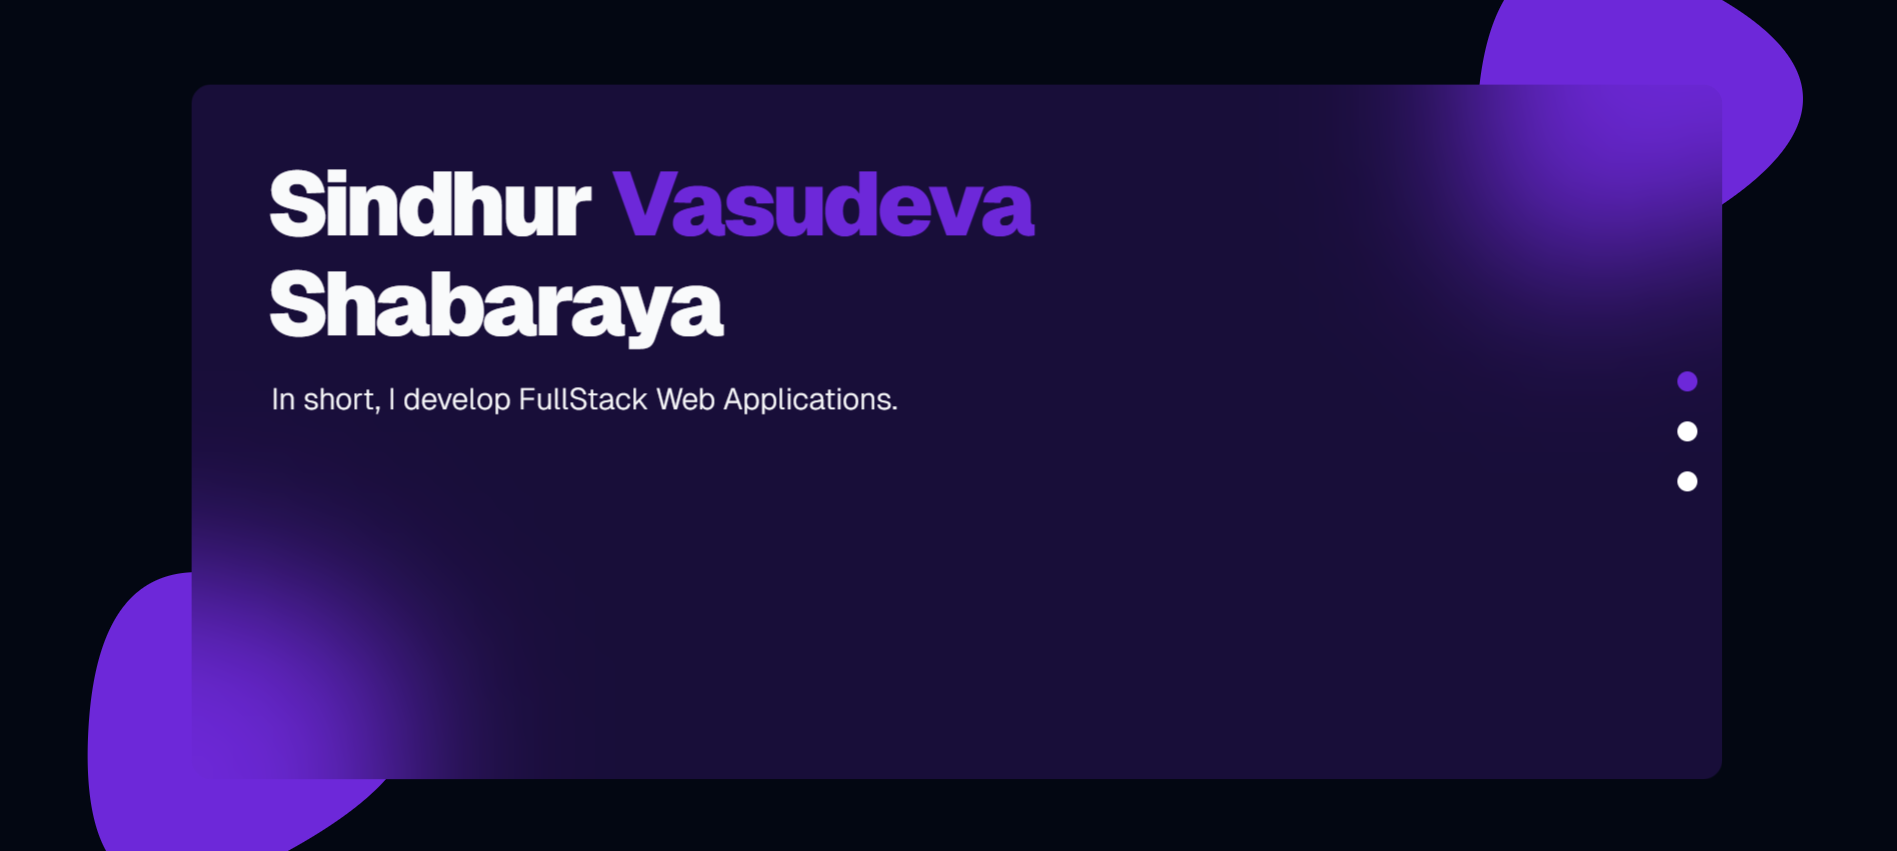
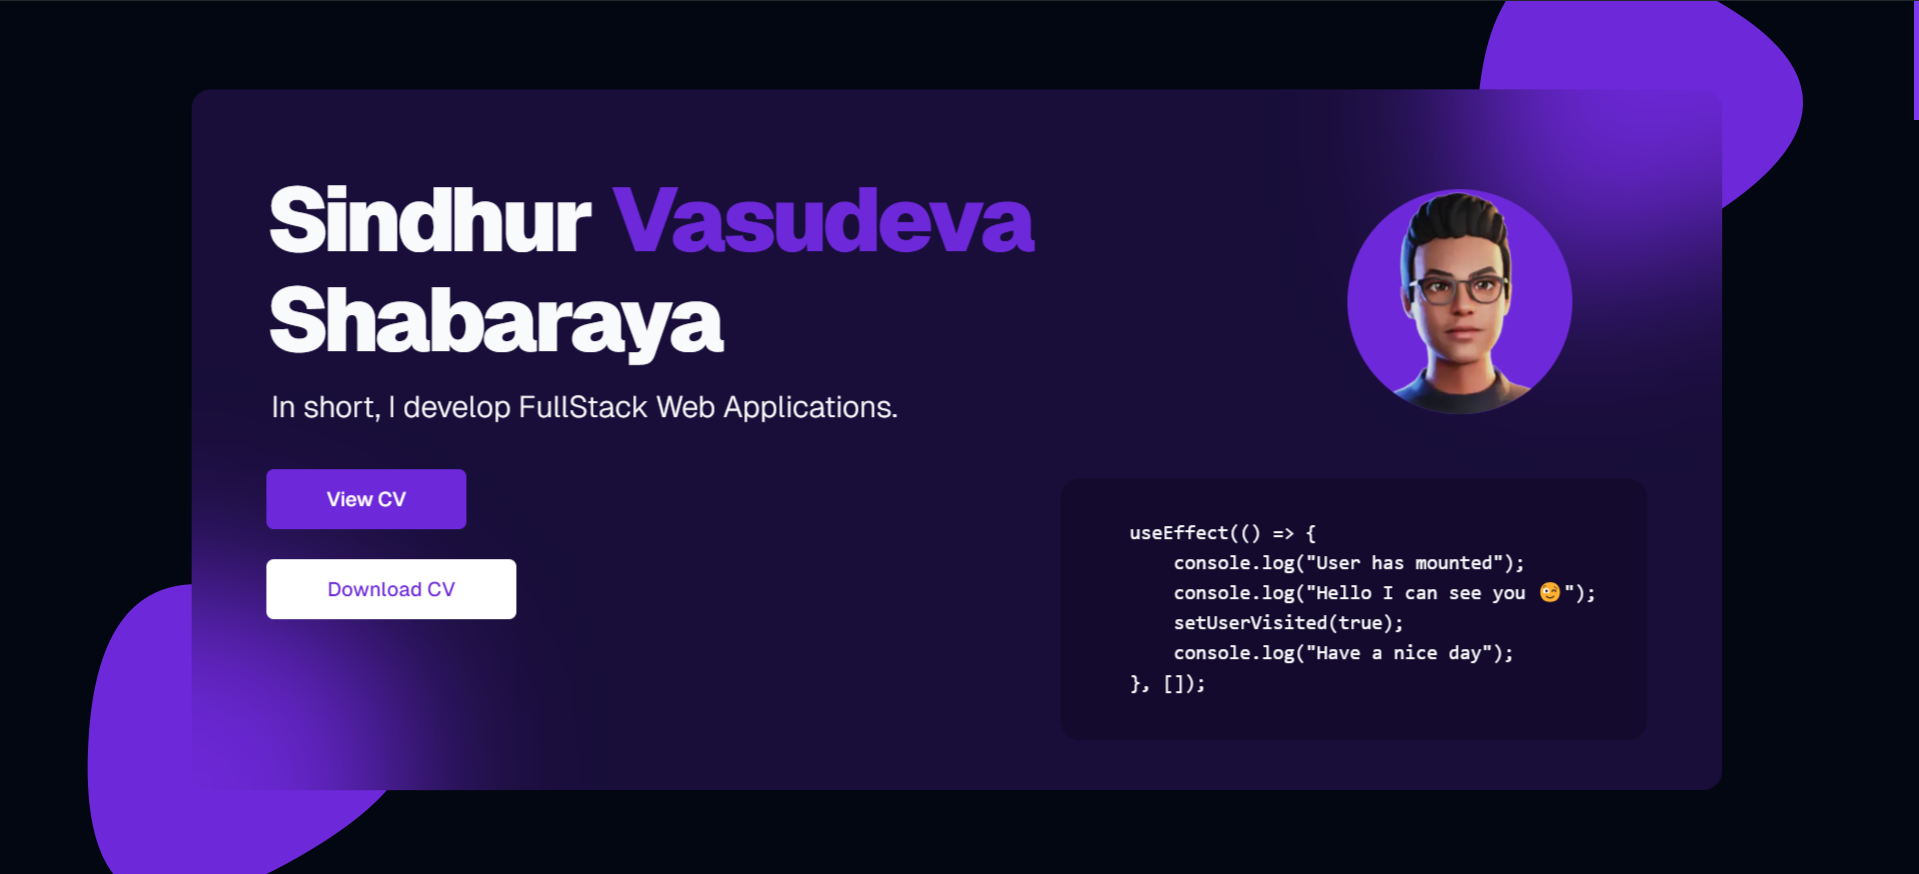
EmailJS & improvement in Landing

diff --git a/components/Contact.tsx b/components/Contact.tsx
@@ -2,11 +2,13 @@
 
 import { useForm } from "react-hook-form";
 import { zodResolver } from "@hookform/resolvers/zod";
+import { useEffect } from "react";
 import zod from "zod";
 import FormComponent from "./FormComponent";
 import Image from "next/image";
 import { Button } from "./ui/button";
 import Link from "next/link";
+import emailjs from "@emailjs/browser";
 
 const formSchema = zod.object({
   name: zod.string().min(2, {
@@ -32,8 +34,29 @@ const Contact = () => {
     },
   });
 
-  const onSubmit = (data: zod.infer<typeof formSchema>) => {
-    console.log(data);
+  useEffect(() => {
+    // initialise the email client on mount
+    emailjs.init({
+      publicKey: process.env.NEXT_PUBLIC_API_KEY
+    })
+  }, []);
+
+  const onSubmit = async (data: zod.infer<typeof formSchema>) => {
+    try{
+      await emailjs.send(process.env.NEXT_PUBLIC_SERVICE_ID as string, 
+        process.env.NEXT_PUBLIC_TEMPLATE_ID as string, {
+          from_name: data.name,
+          user_email: data.email,
+          message: data.message,
+          recipient: process.env.NEXT_PUBLIC_EMAIL_ADDRESS
+        }
+      );
+      form.reset();
+      console.log(data);
+    } 
+    catch(error) {
+      console.log(error);
+    }
   };
 
   return (
@@ -52,10 +75,12 @@ const Contact = () => {
 
           <div className="flex flex-col gap-5 justify-center items-center mt-[120px]">
             <div className="flex flex-col gap-1 items-center">
-              <p className="text-2xl font-semibold">Sindhur Vasudeva Shabaraya</p>
+              <p className="text-2xl font-semibold text-center">Sindhur Vasudeva Shabaraya</p>
               <p>Web developer</p>
             </div>
-            <Button className="text-primary bg-white hover:bg-gray-200 w-40">Hire Me</Button>
+            <Link href="mailto:sindhurvshabaraya2318@gmail.com">
+              <Button className="text-primary bg-white hover:bg-gray-200 w-40">Hire Me</Button>
+            </Link>
           </div>
 
           <div className="absolute bottom-4 left-1/2 -translate-x-1/2 flex flex-row gap-2">

diff --git a/components/landing/Landing.tsx b/components/landing/Landing.tsx
@@ -1,17 +1,27 @@
+import Image from "next/image";
 import LandingWrapper from "./LandingWrapper";
 import TypedName from "./TypedName";
+import CVButton from "./CVButton";
 
 const Landing = () => {
   return (
     <LandingWrapper>
+      <>
+      <div className="flex justify-between items-center">
       <div className="text-7xl font-sans font-black flex flex-col gap-2 w-fit tracking-tighter p-5">
         <div className="inline-flex items-center gap-4">
           <span>Sindhur</span>
           <TypedName/>
         </div>
         <span>Shabaraya</span>
-        <p className="text-2xl tracking-normal font-light pt-4 pl-1">In short, I develop FullStack Web Applications.</p>
+        <p className="text-2xl tracking-normal font-light pt-[12px] pl-1">In short, I develop FullStack Web Applications.</p>
       </div>
+      <div className="relative w-40 h-40 my-10 mx-20">
+        <Image src="/avatar.png" alt="sindhur-avatar" fill objectFit="contain" className="rounded-full bg-primary"/>
+      </div>
+      </div>
+      <CVButton/>
+      </>
     </LandingWrapper>
   );
 };

diff --git a/components/landing/TypedCode.tsx b/components/landing/TypedCode.tsx
@@ -1,0 +1,29 @@
+"use client"
+
+import code from "@/utils/code";
+import { useEffect, useRef } from "react";
+import Typed from "typed.js";
+
+const TypedCode = () => {
+    const divElement = useRef(null);
+
+    useEffect(() => {
+        const typedCode = new Typed(divElement.current, {
+            typeSpeed: 10,
+            showCursor: false,
+            strings: [code],
+            contentType: "html"
+        });
+
+        return () => typedCode.destroy();
+    }, []);
+
+    return(
+        <div className="absolute right-[60px] bottom-10 w-[470px] h-[210px] bg-black/20 py-8 pl-5 pr-10 rounded-2xl animate-accordion-up">
+            <div ref={divElement} className="flex justify-center items-center"></div>
+        </div>
+    );
+}
+
+
+export default TypedCode;

diff --git a/components/About.tsx b/components/About.tsx
@@ -44,7 +44,9 @@ const About = () => {
             </ul>
           </div>
           <div className="flex flex-row gap-2 absolute bottom-10 -ml-1.5">
-          <Image src="/github.png" alt="github" width={30} height={30}/>
+          <Link href="https://github.com/sinster2003" target="_blank">
+            <Image src="/github.png" alt="github" width={30} height={30}/>
+          </Link>
           <Link href="mailto:sindhurvshabaraya2318@gmail.com" className="hover:underline">
             <Image src="/mail-purple.png" alt="mail" width={30} height={30}/>
           </Link>

diff --git a/components/landing/LandingWrapper.tsx b/components/landing/LandingWrapper.tsx
@@ -1,11 +1,11 @@
 import React from "react";
-import DotComponents from "./DotComponents";
+import TypedCode from "./TypedCode";
 
 const LandingWrapper = ({ children }: {children: React.JSX.Element}) => {
   return (
     <div className="absolute z-50 top-1/2 left-1/2 -translate-x-1/2 -translate-y-1/2 w-full lg:w-[80%] h-[80vh] bg-primary/20 rounded-2xl backdrop-blur-3xl backdrop-filter p-10">
       {children}
-      <DotComponents/>
+      <TypedCode/>
     </div>
   );
 };

diff --git a/components/landing/CVButton.tsx b/components/landing/CVButton.tsx
@@ -1,0 +1,14 @@
+"use client"
+
+import { Button } from "../ui/button";
+
+const CVButton = () => {
+    return(
+        <div className="flex flex-col gap-4 mx-5 my-4">
+            <Button className="bg-primary hover:bg-purple-600 w-40 text-white text-base p-6">View CV</Button>
+            <Button className="bg-white hover:bg-gray-200 w-[200px] text-primary text-base p-6">Download CV</Button>
+        </div>
+    );
+}
+
+export default CVButton;

diff --git a/utils/code.ts b/utils/code.ts
@@ -1,0 +1,11 @@
+const code = 
+`<pre style="width: fit-content">
+    useEffect(() => {
+        console.log("User has mounted");
+        console.log("Hello I can see you 😉");
+        setUserVisited(true);
+        console.log("Have a nice day");
+    }, []);
+</pre>`
+
+export default code;

diff --git a/components/TimelineElement.tsx b/components/TimelineElement.tsx
@@ -1,7 +1,6 @@
 import Image from 'next/image';
 import { useInView } from 'react-intersection-observer';
 import { VerticalTimelineElement } from 'react-vertical-timeline-component';
-import Blob from "@/public/blob1.svg";
 import BlobComponent from './BlobComponent';
 
 interface Experience {

diff --git a/components/landing/TypedName.tsx b/components/landing/TypedName.tsx
@@ -10,7 +10,6 @@ const TypedName = () => {
     const typed = new Typed(nameElement.current, {
         strings: ["Vasudeva"],
         typeSpeed: 100,
-        startDelay: 1000,
         showCursor: false,
     });
 
